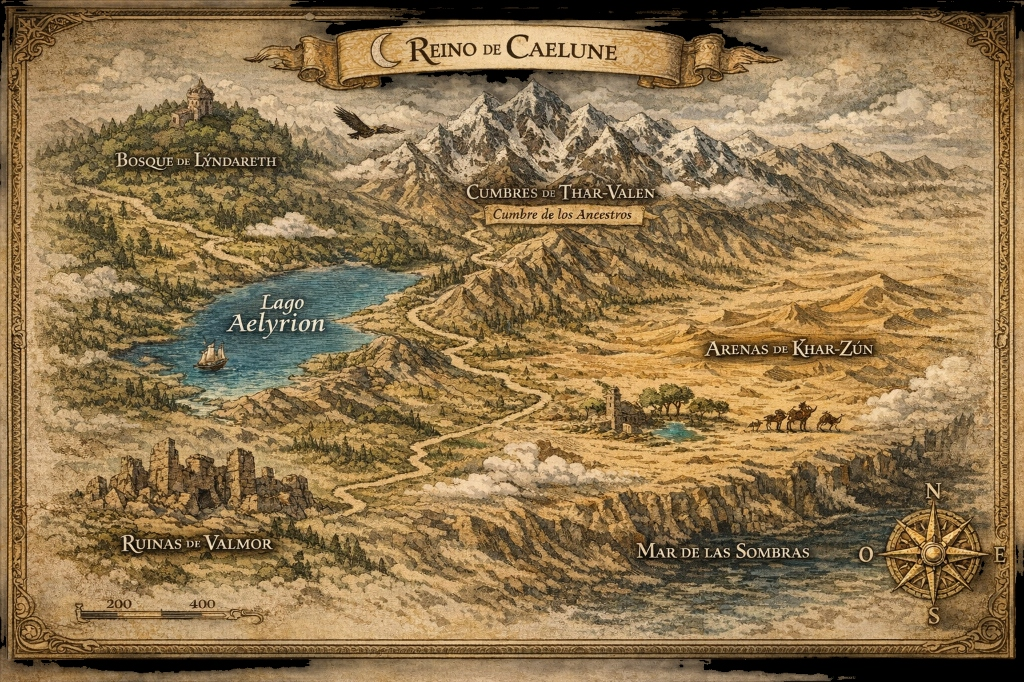
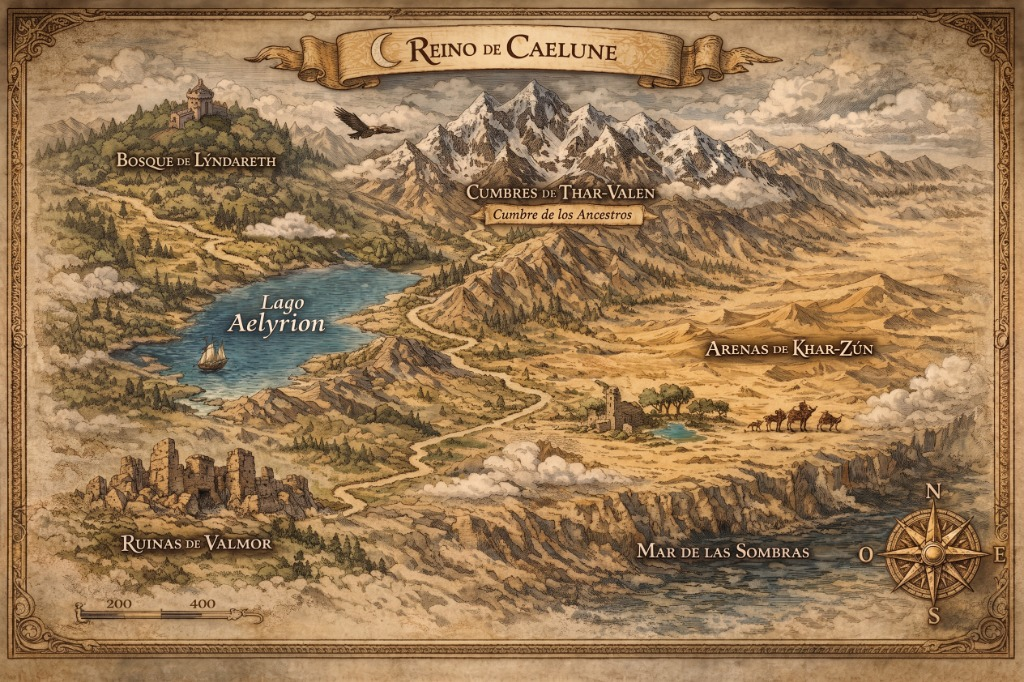
Mejorar controles del mapa y reemplazar imagen

diff --git a/index.html b/index.html
@@ -1531,29 +1531,137 @@
       }
     }
 
-    // ============ MAP ZOOM CONTROLS ============
+    // ============ MAP PAN & ZOOM CONTROLS ============
     let currentMapZoom = 1.0;
+    let mapPanX = 0;
+    let mapPanY = 0;
+    let isMapDragging = false;
+    let mapDragStartX = 0;
+    let mapDragStartY = 0;
+    let mapPanStartX = 0;
+    let mapPanStartY = 0;
+
+    function clampMapPan() {
+      const viewport = document.getElementById('map-viewport');
+      if (!viewport) return;
+      const vw = viewport.clientWidth;
+      const vh = viewport.clientHeight;
+      // How much extra area is visible when zoomed in
+      const maxPanX = Math.max(0, (vw * currentMapZoom - vw) / 2);
+      const maxPanY = Math.max(0, (vh * currentMapZoom - vh) / 2);
+      mapPanX = Math.min(maxPanX, Math.max(-maxPanX, mapPanX));
+      mapPanY = Math.min(maxPanY, Math.max(-maxPanY, mapPanY));
+    }
 
     function zoomMap(delta) {
-      currentMapZoom = Math.min(Math.max(currentMapZoom + delta, 0.8), 2.2);
-      applyMapZoom();
+      currentMapZoom = Math.min(Math.max(currentMapZoom + delta, 0.8), 3.0);
+      clampMapPan();
+      applyMapTransform();
     }
 
     function resetMapZoom() {
       currentMapZoom = 1.0;
-      applyMapZoom();
+      mapPanX = 0;
+      mapPanY = 0;
+      applyMapTransform();
     }
 
-    function applyMapZoom() {
+    function applyMapTransform() {
       const layer = document.getElementById('map-interactive-layer');
       const label = document.getElementById('map-zoom-label');
       if (layer) {
-        layer.style.transform = `scale(${currentMapZoom})`;
+        layer.style.transform = `translate(${mapPanX}px, ${mapPanY}px) scale(${currentMapZoom})`;
       }
       if (label) {
         label.textContent = `${Math.round(currentMapZoom * 100)}%`;
       }
     }
+
+    // --- Mouse drag ---
+    function onMapPointerDown(e) {
+      // Don't start drag on controls or beacon clicks
+      if (e.target.closest('[onclick*="selectMapLocation"]') || e.target.closest('button')) return;
+      isMapDragging = true;
+      mapDragStartX = e.clientX;
+      mapDragStartY = e.clientY;
+      mapPanStartX = mapPanX;
+      mapPanStartY = mapPanY;
+      const layer = document.getElementById('map-interactive-layer');
+      if (layer) layer.style.transition = 'none';
+      e.preventDefault();
+    }
+
+    function onMapPointerMove(e) {
+      if (!isMapDragging) return;
+      const dx = e.clientX - mapDragStartX;
+      const dy = e.clientY - mapDragStartY;
+      mapPanX = mapPanStartX + dx;
+      mapPanY = mapPanStartY + dy;
+      clampMapPan();
+      applyMapTransform();
+    }
+
+    function onMapPointerUp() {
+      if (!isMapDragging) return;
+      isMapDragging = false;
+      const layer = document.getElementById('map-interactive-layer');
+      if (layer) layer.style.transition = 'transform 0.3s ease-out';
+    }
+
+    // --- Touch drag ---
+    function onMapTouchStart(e) {
+      if (e.touches.length !== 1) return;
+      if (e.target.closest('[onclick*="selectMapLocation"]') || e.target.closest('button')) return;
+      isMapDragging = true;
+      mapDragStartX = e.touches[0].clientX;
+      mapDragStartY = e.touches[0].clientY;
+      mapPanStartX = mapPanX;
+      mapPanStartY = mapPanY;
+      const layer = document.getElementById('map-interactive-layer');
+      if (layer) layer.style.transition = 'none';
+    }
+
+    function onMapTouchMove(e) {
+      if (!isMapDragging || e.touches.length !== 1) return;
+      const dx = e.touches[0].clientX - mapDragStartX;
+      const dy = e.touches[0].clientY - mapDragStartY;
+      mapPanX = mapPanStartX + dx;
+      mapPanY = mapPanStartY + dy;
+      clampMapPan();
+      applyMapTransform();
+      e.preventDefault();
+    }
+
+    function onMapTouchEnd() {
+      isMapDragging = false;
+      const layer = document.getElementById('map-interactive-layer');
+      if (layer) layer.style.transition = 'transform 0.3s ease-out';
+    }
+
+    // --- Scroll wheel zoom ---
+    function onMapWheel(e) {
+      e.preventDefault();
+      const delta = e.deltaY > 0 ? -0.15 : 0.15;
+      currentMapZoom = Math.min(Math.max(currentMapZoom + delta, 0.8), 3.0);
+      clampMapPan();
+      applyMapTransform();
+    }
+
+    // Attach map event listeners once DOM is ready
+    window.addEventListener('DOMContentLoaded', () => {
+      const viewport = document.getElementById('map-viewport');
+      if (!viewport) return;
+
+      viewport.addEventListener('mousedown', onMapPointerDown);
+      window.addEventListener('mousemove', onMapPointerMove);
+      window.addEventListener('mouseup', onMapPointerUp);
+
+      viewport.addEventListener('touchstart', onMapTouchStart, { passive: true });
+      viewport.addEventListener('touchmove', onMapTouchMove, { passive: false });
+      viewport.addEventListener('touchend', onMapTouchEnd);
+
+      viewport.addEventListener('wheel', onMapWheel, { passive: false });
+    });
 
     function selectMapLocation(locationId) {
       // Bring click focus to the location beacon
